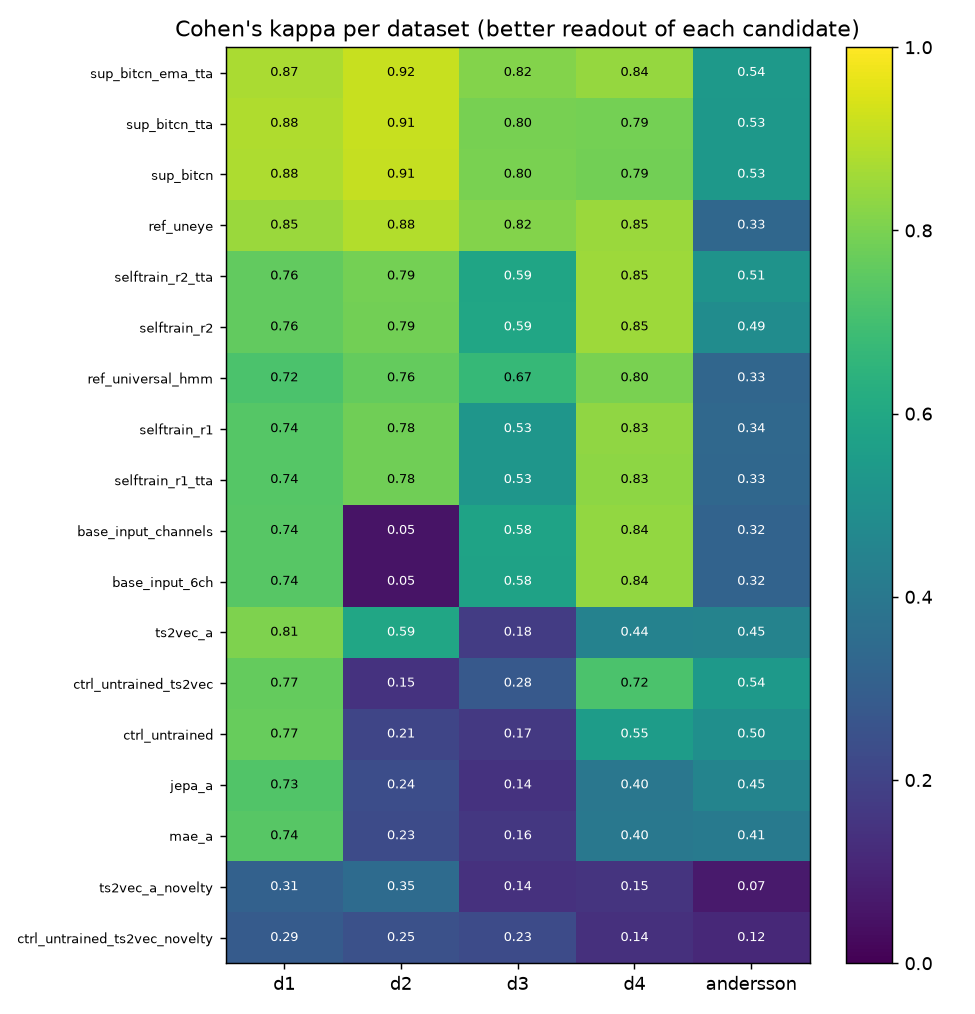
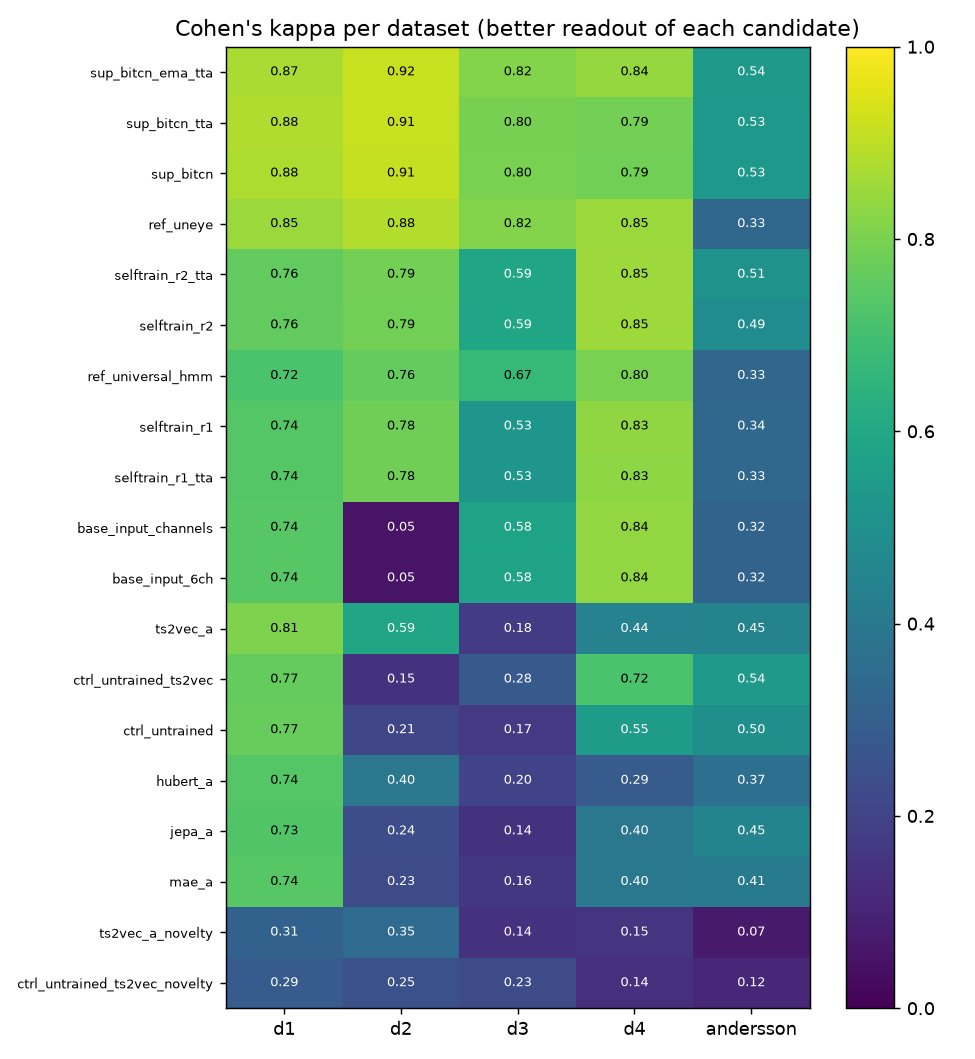
Overnight comparison: hubert_a (done)

diff --git a/docs/OVERNIGHT_REPORT.md b/docs/OVERNIGHT_REPORT.md
@@ -1,13 +1,13 @@
 # Overnight comparison of candidate architectures and training heuristics
 
-Generated 2026-10-10 00:11 by `foundation/night_report.py` from `foundation/runs/night/*.json` (MacBook Air M1, one GPU job at a time). The numbers are those of the files; nothing is typed by hand in the tables.
+Generated 2026-10-10 00:48 by `foundation/night_report.py` from `foundation/runs/night/*.json` (MacBook Air M1, one GPU job at a time). The numbers are those of the files; nothing is typed by hand in the tables.
 
 ## Summary
 
 - Best mean event F1 over the 5 benchmarks: **sup_bitcn_ema_tta** (0.88 F1, 0.80 kappa, readout: threshold); best mean kappa: **sup_bitcn_ema_tta** (0.88 / 0.80, readout: threshold).
 - Reference U'n'Eye (supervised): 0.85 F1 / 0.75 kappa on the same subsets (Andersson with its general weights is 0.55 / 0.33; with its own weights 0.89 / 0.81). The label-free universal HMM: 0.88 / 0.66.
 - Control: the random-initialised transformer encoder gives 0.48 / 0.44 (hmm): a trained encoder only counts if it beats this.
-- Steps of the night finished: 8; failed or timed out: 0.
+- Steps of the night finished: 9; failed or timed out: 0.
 
 ## Protocol (the same for every row)
 
@@ -58,6 +58,7 @@ Already tried before tonight (not repeated):
 | `mae_a` | self-supervised | labels of the other 4 datasets (linear probe only); the enco | **0.62 / 0.39** | hmm | 0.62 / 0.39 | 0.45 / 0.48 | 0.82 / 0.74 | 0.60 / 0.23 | 0.38 / 0.16 | 0.52 / 0.40 | 0.79 / 0.41 | 39.1 |
 | `ts2vec_a` | self-supervised | labels of the other 4 datasets (linear probe only); the enco | **0.61 / 0.49** | hmm | 0.61 / 0.49 | 0.38 / 0.47 | 0.85 / 0.81 | 0.62 / 0.59 | 0.44 / 0.18 | 0.44 / 0.44 | 0.72 / 0.45 | 11.7 |
 | `jepa_a` | self-supervised | labels of the other 4 datasets (linear probe only); the enco | **0.61 / 0.39** | hmm | 0.61 / 0.39 | 0.42 / 0.49 | 0.76 / 0.73 | 0.57 / 0.24 | 0.46 / 0.14 | 0.53 / 0.40 | 0.76 / 0.45 | 1.1 |
+| `hubert_a` | self-supervised | labels of the other 4 datasets (linear probe only); the enco | **0.57 / 0.40** | hmm | 0.57 / 0.40 | 0.51 / 0.55 | 0.75 / 0.74 | 0.70 / 0.40 | 0.36 / 0.20 | 0.34 / 0.29 | 0.70 / 0.37 | 37.0 |
 | `ts2vec_a_novelty` | self-supervised | none (the encoder saw no label; no probe either) | **0.33 / 0.20** | hmm | 0.33 / 0.20 | n/a | 0.34 / 0.31 | 0.45 / 0.35 | 0.29 / 0.14 | 0.20 / 0.15 | 0.38 / 0.07 | 12.4 |
 | `selftrain_r1_tta` | label-free student | none for training | **0.83 / 0.64** | threshold | 0.66 / 0.63 | 0.83 / 0.64 | 0.89 / 0.74 | 0.90 / 0.78 | 0.78 / 0.53 | 0.92 / 0.83 | 0.68 / 0.33 | 4.6 |
 | `selftrain_r1` | label-free student | none for training (labeled train splits only select the chec | **0.80 / 0.64** | threshold | 0.68 / 0.64 | 0.80 / 0.64 | 0.89 / 0.74 | 0.90 / 0.78 | 0.77 / 0.53 | 0.92 / 0.83 | 0.54 / 0.34 | 4.6 |
@@ -94,6 +95,7 @@ The headline column is the better mean event F1 of the two readouts (shown separ
 | sup_bitcn | done | 11.0 |
 | ts2vec_a | done | 13.2 |
 | mae_a | done | 39.4 |
+| hubert_a | done | 37.2 |
 
 ## Limits
 
